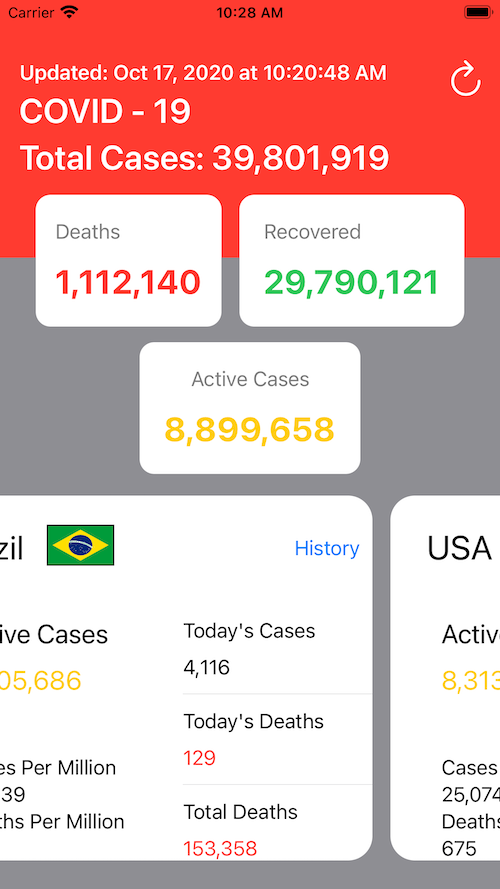
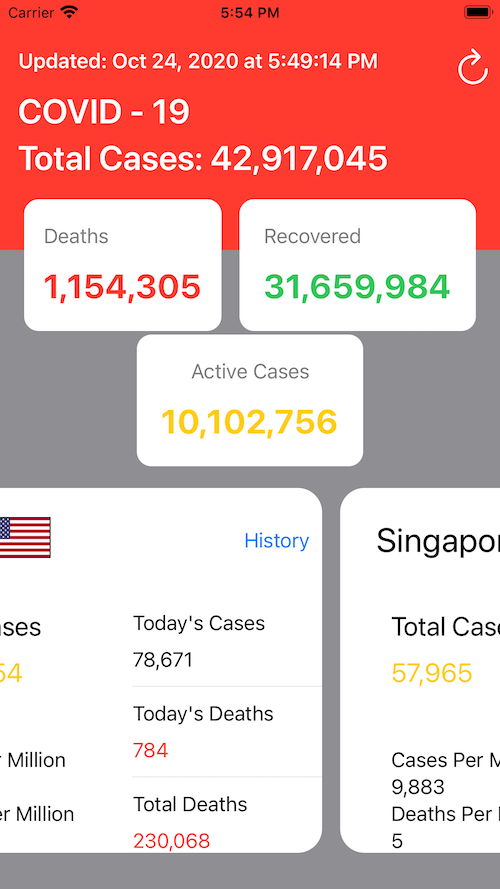
add country flags, iOS 14 stuff, cleanup

diff --git a/COVID/ContentView.swift b/COVID/ContentView.swift
@@ -5,28 +5,16 @@
 //  Created by Gary Hanson on 3/28/20.
 //  Copyright © 2020 Gary Hanson. All rights reserved.
 
-//  https://www.youtube.com/watch?v=UEjiDemnkoI     // Kavsoft video
 //
 //  https://corona.lmao.ninja/docs/                 // API documentation
 //
 
 import SwiftUI
 
+
 struct ContentView: View {
-    var body: some View {
-        Home()
-    }
-}
-
-struct ContentView_Previews: PreviewProvider {
-    static var previews: some View {
-        ContentView()
-    }
-}
-
-struct Home: View {
     @ObservedObject var data = ViewModel()
-    @Environment(\.scenePhase) var scenePhase
+//    @Environment(\.scenePhase) private var scenePhase
     
     var body : some View {
         VStack {
@@ -40,21 +28,20 @@ struct Home: View {
                             
                             Text("Updated: " + self.data.data.lastUpdated)
                                 .fontWeight(.semibold)
-                                .foregroundColor(.white)
-                            
+                                .padding(.bottom, 10)
+
                             Text("COVID - 19")
                                 .fontWeight(.semibold)
                                 .font(.title)
-                                .foregroundColor(.white)
-                            
+
                             Text("Total Cases: " + self.data.data.casesString)
                                 .fontWeight(.semibold)
                                 .font(.title)
-                                .foregroundColor(.white)
                         }
-                        
+                        .foregroundColor(.white)
+
                         Spacer()
-                        
+
                         Button(action: {
                             self.data.updateData()
                         }) {
@@ -62,9 +49,11 @@ struct Home: View {
                                 .font(.title)
                                 .foregroundColor(.white)
                         }
+                        .padding(.trailing, 10)
                     }
                     .padding(.top, (UIApplication.shared.windows.first?.safeAreaInsets.top)! + 20)
-                    .padding()
+                    .padding(.leading, 15)
+                    .frame(minWidth: 0, maxWidth: .infinity, minHeight: 0, maxHeight: .infinity, alignment: .topLeading)
                     .padding(.bottom, 50)
                     .background(Color.red)
 
@@ -97,7 +86,7 @@ struct Home: View {
                             .padding(.vertical, 20)
                             .background(Color.white)
                             .cornerRadius(12)
-                    }.offset(y: -60)
+                    }.offset(y: -50)
                         .padding(.bottom, -55)
                         .zIndex(25)
                     
@@ -125,7 +114,7 @@ struct Home: View {
                         }
                     }
                     .padding(.top, 10)
-                    .padding(.bottom, 50)
+                    .padding(.bottom, 30)
                 }
                 .background(Color.gray)
             }
@@ -136,15 +125,20 @@ struct Home: View {
                     }
                 }
             }
-        }.ignoresSafeArea()
+        }
+        .ignoresSafeArea()
         .onAppear {
             self.data.updateData()
         }
-        .onChange(of: scenePhase) { phase in
-            if phase == .active {
-                self.data.updateData()
-            }
+        .onReceive(NotificationCenter.default.publisher(for: UIApplication.willEnterForegroundNotification)) { _ in
+            self.data.updateData()
         }
+        // this is not currently working. it used to work. will work again sometime.
+//        .onChange(of: scenePhase) { phase in
+//           if phase == .active {
+//                self.data.updateData()
+//            }
+//        }
     }
 }
 
@@ -161,5 +155,11 @@ struct Indicator: UIViewRepresentable {
     
     func updateUIView(_ uiView: UIActivityIndicatorView, context: UIViewRepresentableContext<Indicator>) {
         
+    }
+}
+
+struct ContentView_Previews: PreviewProvider {
+    static var previews: some View {
+        ContentView()
     }
 }

diff --git a/COVID/ViewModel.swift b/COVID/ViewModel.swift
@@ -7,6 +7,7 @@
 //
 
 import Foundation
+import os.log
 
 
 struct Case : Decodable {
@@ -198,3 +199,11 @@ extension URL {
         URL(string: "https://disease.sh/v3/covid-19/historical/\(country)?lastdays=\(daysBack)")!
     }
 }
+
+extension OSLog {
+    private static var subsystem = Bundle.main.bundleIdentifier!
+
+    /// Logs the view cycles like viewDidLoad.
+    static let networkLogger = OSLog(subsystem: subsystem, category: "log_networkcall")
+}
+

diff --git a/COVID/CellView.swift b/COVID/CellView.swift
@@ -53,7 +53,7 @@ struct cellView : View {
 
                         VStack(alignment: .leading, spacing: 12) {
 
-                            Text("Active Cases")
+                            Text("Total Cases")
                                 .foregroundColor(.black)
                                 .font(.title2)
 
